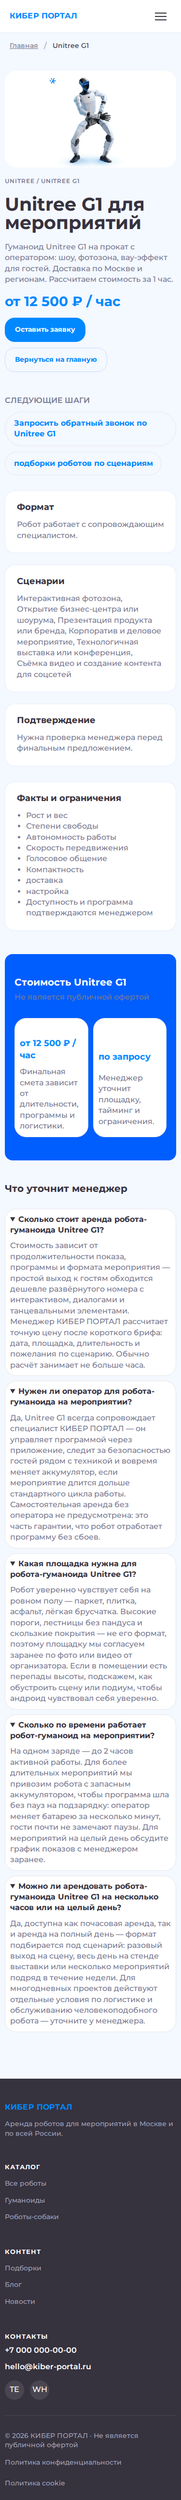
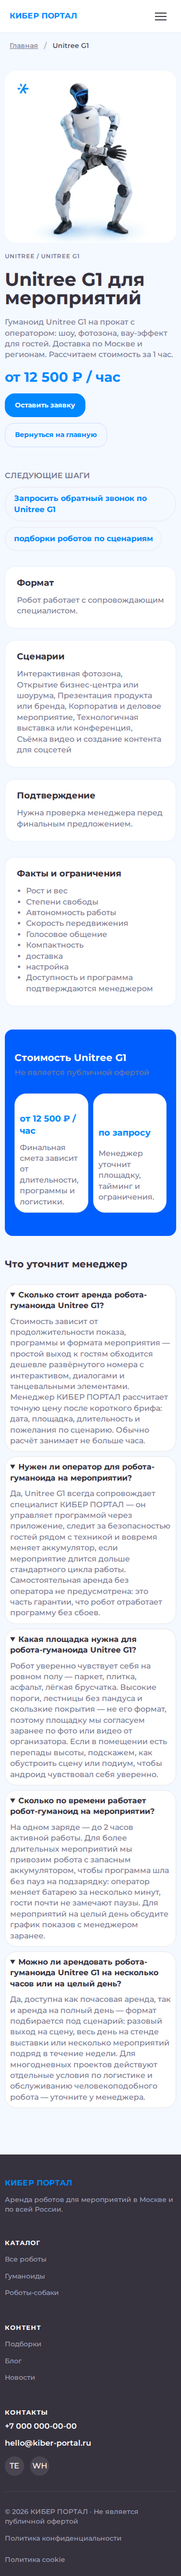
fix: keep KIBER-88 robot media square on mobile

Changed region(s): [[0.0, 0.0312, 1.0, 0.9981], [0.7627, 0.1871, 0.8213, 0.2183]]

diff --git a/tests/visual/reference-visual-layer-pass1.test.ts b/tests/visual/reference-visual-layer-pass1.test.ts
@@ -49,8 +49,9 @@ test('KIBER-88 imports a reference-layer CSS file with core reference primitives
   assert.match(css, /\.robot-card__badge/);
   assert.match(css, /min-width:\s*20rem/);
   assert.doesNotMatch(css, /min-width:\s*31\.25rem/);
-  assert.match(css, /aspect-ratio:\s*16\s*\/\s*9/);
   assert.match(css, /object-fit:\s*contain/);
+  assert.doesNotMatch(css, /\.robot-page__media\s*\{[^}]*aspect-ratio:\s*16\s*\/\s*9/s);
+  assert.match(css, /\.robot-page__media\s*\{[^}]*aspect-ratio:\s*1/s);
 
   const baseLayout = text(baseLayoutPath);
   assert.match(baseLayout, /\.\.\/styles\/reference-layer\.css/);
@@ -61,6 +62,8 @@ test('KIBER-88 home hero and robot page expose reference-compatible structure', 
   assert.match(hero, /home-hero__card/);
   assert.match(hero, /home-hero__image/);
   assert.match(hero, /home-hero__content/);
+  assert.match(hero, /aspect-ratio:\s*16\s*\/\s*9/);
+  assert.match(hero, /object-fit:\s*contain/);
   assert.match(hero, /data-rv="02"/);
 
   const index = text(indexPath);

diff --git a/src/styles/reference-layer.css b/src/styles/reference-layer.css
@@ -445,7 +445,7 @@ select:focus-visible {
 
   .robot-page__media {
     order: -1;
-    aspect-ratio: 16 / 9;
+    aspect-ratio: 1;
     border-radius: 1.5rem;
   }
 

diff --git a/docs/review/kiber-88/reference-visual-layer-evidence.md b/docs/review/kiber-88/reference-visual-layer-evidence.md
@@ -13,23 +13,31 @@ Visual sources:
 ## Pass 1 applied areas
 
 - `01-header`: reference-like sticky header rhythm and compact CTA.
-- `02-home-hero`: dark card, blue/white CTAs, 16:9/contain mobile image behavior, stats cards, responsive typography.
+- `02-home-hero`: dark card, blue/white CTAs, horizontal 16:9/contain mobile image behavior, stats cards, responsive typography.
 - `05-robot-card`: card/badge/radius/color treatment through the visual layer.
 - `09-cta-strip`: reference dark CTA, compact stacked mobile CTAs.
-- `11-robot-hero`: detail-page hero layout, 16:9/contain mobile media behavior, compact stacked mobile buttons.
+- `11-robot-hero`: detail-page hero layout; mobile/tablet image card remains square 1:1 with contained image per review feedback.
 - `15-pricing`: dark pricing surface treatment.
 - `33-footer`: reference dark footer, mobile-safe text wrapping, tablet 768 two-column arrangement with contacts top-right.
 
-## User feedback addressed after first review
+## User feedback addressed
 
-- Homepage hero image was visually too square on mobile; fixed by forcing a horizontal 16:9 viewport slot and `object-fit: contain` in the mobile/tablet stack.
-- Homepage mobile 375 buttons were too wide/split; fixed as compact stacked CTAs.
-- Homepage stats/value blocks overflowed on 375; fixed container/grid sizing and verified no horizontal overflow.
-- Robot detail page mobile image showed only a cropped portion; fixed mobile media to 16:9 + contain.
-- Robot detail page mobile text/buttons now fit within viewport and buttons stack compactly.
-- Contacts/lead mobile text/form visible area no longer horizontally overflows.
-- Footer mobile logo/description/contact text wraps within viewport.
-- Footer tablet 768 now uses a two-column arrangement: brand/description left, contacts upper-right, catalog/content below.
+First feedback pass:
+
+- Home mobile 375: fixed square/cropped hero image behavior by using a horizontal 16:9 slot with contained image.
+- Home mobile 375: compact stacked hero buttons, stats fit within viewport.
+- Root mobile overflow: fixed erroneous `320px -> 31.25rem` conversion and added sizing guard; screenshot capture verified `mobile overflow count 0`.
+- Robot page mobile 375: text/buttons fit within viewport.
+- Contacts/lead mobile: verified visible text/form area no longer horizontally overflows.
+- Footer mobile: text/logo/contact blocks wrap within viewport.
+- Footer tablet 768: two-column arrangement with brand/description left, contacts upper-right, catalog/content below.
+
+Second feedback pass:
+
+- Home was accepted and left unchanged.
+- Robot page mobile 375 and tablet 768 image card returned to square 1:1 format instead of horizontal 16:9.
+- Robot image remains `object-fit: contain` in the square card so the robot fits without destructive crop.
+- Regression test now protects this distinction: HomeHero keeps 16:9 mobile image, RobotPage media stays square 1:1.
 
 ## Verification
 
@@ -39,6 +47,7 @@ Commands run locally:
 node --import tsx --test tests/visual/reference-visual-layer-pass1.test.ts
 npm run build:production
 npm run test:reference-visual-layer
+npm run ci
 ```
 
 Screenshot capture verification:
@@ -46,8 +55,6 @@ Screenshot capture verification:
 ```text
 captured 16 route x viewport variants to docs/review/kiber-88/screenshots; mobile overflow count 0
 ```
-
-A full `npm run ci` is rerun after this feedback fix before pushing.
 
 ## Screenshot evidence
 
